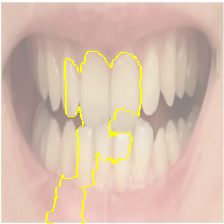
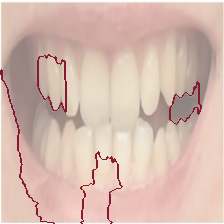
change color of LIME mask outline

diff --git a/explainable.py b/explainable.py
@@ -104,7 +104,7 @@ predict_fn_lime = partial(predict_fn, transform_required=True)
 
 def overlay_explainability_layer(explanation):
     temp, mask = explanation.get_image_and_mask(visualized_class, positive_only=True, num_features=5, hide_rest=False)
-    plt.imsave("out.png", mark_boundaries(temp / 2 + 0.5, mask))
+    plt.imsave("out.png", mark_boundaries(temp / 2 + 0.5, mask, color=(0.5294117647058824, 0.09803921568627451, 0.19607843137254902)))
     
 
 
